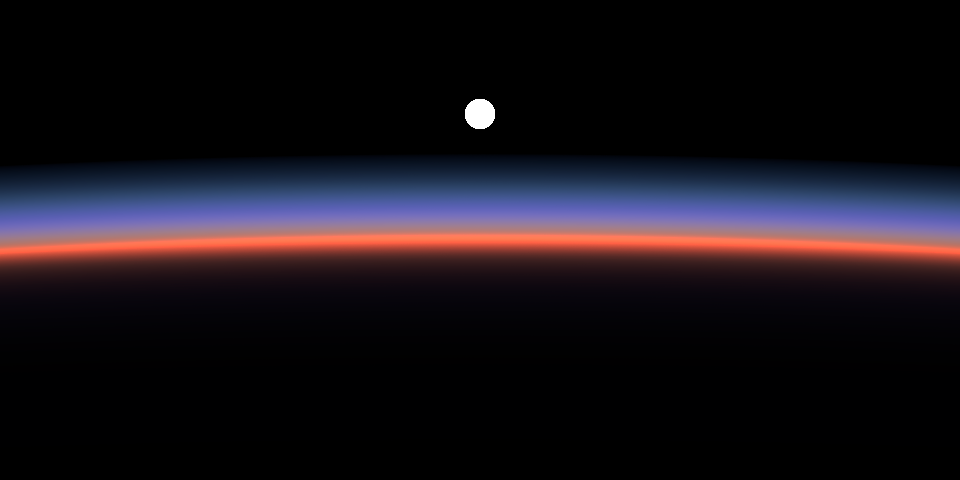
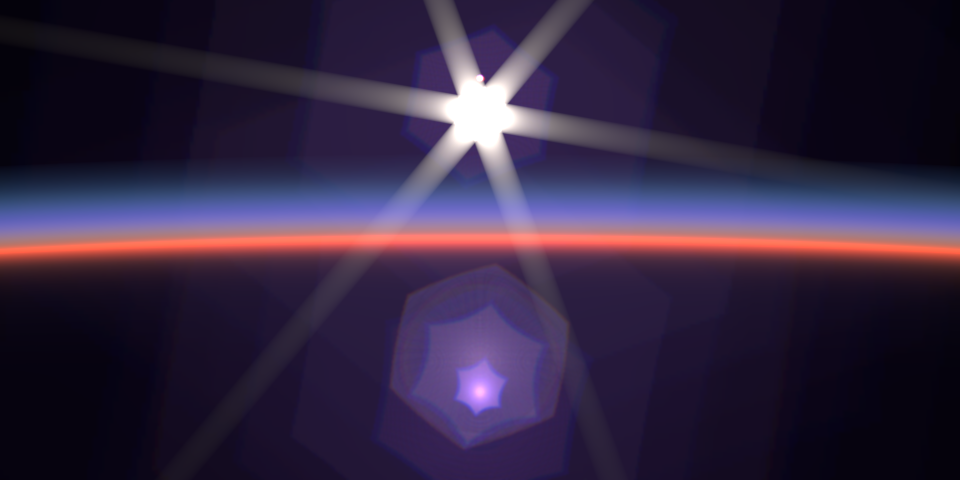
Lens flare in the space scenes; flare grids follow the pupil
Ghost grids were laid over the whole front element, of which a small
aperture passes only a sliver: a ghost filling the image was drawn from a
few dozen blocky cells. Each path's grid now covers just the region a coarse
pass finds getting through, with the light per unit of entrance area.

The flare's default lens is the wide-angle one for views wider than 20 deg up
from the centre, which the double Gauss doesn't cover (a light outside its
field makes no ghosts).

limb-sunset and stratosphere gain a six-bladed f/11 flare, exaggerated.

Claude-Session: https://claude.ai/code/session_01U8ZZinc1MtAMYjLJ6fUm2R

diff --git a/src/flare.rs b/src/flare.rs
@@ -231,19 +231,45 @@ impl Flare {
         Some((Vector2::new(o.x + d.x * t, o.y + d.y * t), weight))
     }
 
-    /// The grid's rays for a light from camera-space `direction`: for each vertex of a
-    /// (grid + 1)² lattice over the front element, where it lands and with what weight.
-    fn lattice(&self, z: &[f64], direction: &Vector3<f64>, ghost: Option<(usize, usize)>, lambda: f64) -> Vec<Option<(Vector2<f64>, f64)>> {
-        let g = self.grid;
-        let r = self.lens.interfaces[0].aperture;
+    /// The rays for a light from camera-space `direction` through a lattice of (g + 1)²
+    /// points on the front element's plane, spanning [lo, hi]: for each, where it lands on the
+    /// film and with what weight.
+    #[allow(clippy::too_many_arguments)]
+    fn lattice_in(&self, z: &[f64], direction: &Vector3<f64>, ghost: Option<(usize, usize)>, lambda: f64,
+                  lo: Vector2<f64>, hi: Vector2<f64>, g: usize) -> Vec<Option<(Vector2<f64>, f64)>> {
         let front = self.lens.front_z();
         let d = -direction.normalize();
         (0..(g + 1) * (g + 1)).map(|k| {
             let (i, j) = (k % (g + 1), k / (g + 1));
-            let p = Vector3::new(-r + 2. * r * i as f64 / g as f64, -r + 2. * r * j as f64 / g as f64, front);
+            let p = Vector3::new(lo.x + (hi.x - lo.x) * i as f64 / g as f64, lo.y + (hi.y - lo.y) * j as f64 / g as f64, front);
             // Start a little in front of the lens, back along the ray.
             self.trace(z, &(p - d * 0.01), &d, ghost, lambda)
         }).collect()
+    }
+
+    /// The rays along a path through a lattice of `grid` cells a side, laid over just the part of
+    /// the front element whose rays get through: found by a coarse lattice over the whole
+    /// element first, since at small apertures only a sliver of it passes the stop. The lattice,
+    /// its corners and its size; None if nothing gets through.
+    #[allow(clippy::type_complexity)]
+    fn lattice(&self, z: &[f64], direction: &Vector3<f64>, ghost: Option<(usize, usize)>, lambda: f64)
+               -> Option<(Vec<Option<(Vector2<f64>, f64)>>, Vector2<f64>, Vector2<f64>)> {
+        const COARSE: usize = 48;
+        let r = self.lens.interfaces[0].aperture;
+        let (lo, hi) = (Vector2::repeat(-r), Vector2::repeat(r));
+        let coarse = self.lattice_in(z, direction, ghost, lambda, lo, hi, COARSE);
+        let step = 2. * r / COARSE as f64;
+        let mut bounds: Option<(Vector2<f64>, Vector2<f64>)> = None;
+        for (k, v) in coarse.iter().enumerate() {
+            if v.is_some() {
+                let p = Vector2::new(-r + step * (k % (COARSE + 1)) as f64, -r + step * (k / (COARSE + 1)) as f64);
+                bounds = Some(match bounds { None => (p, p), Some((a, b)) => (a.inf(&p), b.sup(&p)) });
+            }
+        }
+        // A path that only a few coarse points miss entirely still has a sliver: widen by a cell.
+        let (a, b) = bounds?;
+        let (a, b) = ((a - Vector2::repeat(step)).sup(&lo), (b + Vector2::repeat(step)).inf(&hi));
+        Some((self.lattice_in(z, direction, ghost, lambda, a, b, self.grid), a, b))
     }
 
     /// Film (camera space) to image position in pixels, (column, row from the top): the image
@@ -307,17 +333,25 @@ impl Flare {
         let cell_ok = |lat: &[Option<(Vector2<f64>, f64)>], i: usize, j: usize| {
             [(i, j), (i + 1, j), (i + 1, j + 1), (i, j + 1)].iter().all(|(a, b)| lat[b * (g + 1) + a].is_some())
         };
-        // The light's energy per cell that reaches the film directly.
-        let direct = self.lattice(&z, &source.direction, None, WAVELENGTHS[1]);
-        let reaching = (0..g * g).filter(|k| cell_ok(&direct, k % g, k / g)).count();
-        if reaching == 0 {
+        let cell_area = |lo: &Vector2<f64>, hi: &Vector2<f64>| (hi.x - lo.x) * (hi.y - lo.y) / (g * g) as f64;
+        // The area of the front element through which the light reaches the film directly: its
+        // energy per unit of that area.
+        let (direct, dlo, dhi) = match self.lattice(&z, &source.direction, None, WAVELENGTHS[1]) {
+            Some(l) => l,
+            None => return vec![Color::black(); w * h],
+        };
+        let reaching = (0..g * g).filter(|k| cell_ok(&direct, k % g, k / g)).count() as f64 * cell_area(&dlo, &dhi);
+        if reaching <= 0. {
             return vec![Color::black(); w * h];
         }
         let jobs: Vec<((usize, usize), usize)> = self.ghost_pairs().into_iter().flat_map(|p| (0..3).map(move |c| (p, c))).collect();
         jobs.par_iter().fold(|| vec![Color::black(); w * h], |mut out, &(pair, c)| {
             let lambda = WAVELENGTHS[c];
-            let lat = self.lattice(&z, &source.direction, Some(pair), lambda);
-            let per_cell = source.energy.rgb[c] * self.ghosts / reaching as f64;
+            let (lat, lo, hi) = match self.lattice(&z, &source.direction, Some(pair), lambda) {
+                Some(l) => l,
+                None => return out,
+            };
+            let per_cell = source.energy.rgb[c] * self.ghosts * cell_area(&lo, &hi) / reaching;
             for j in 0..g {
                 for i in 0..g {
                     if !cell_ok(&lat, i, j) {
@@ -559,7 +593,7 @@ mod tests {
         let z = f.positions();
         let a = 5f64.to_radians();
         let dir = Vector3::new(a.sin(), 0., a.cos());
-        let lat = f.lattice(&z, &dir, None, 550.);
+        let (lat, _, _) = f.lattice(&z, &dir, None, 550.).unwrap();
         let hits: Vec<Vector2<f64>> = lat.iter().flatten().map(|(p, _)| *p).collect();
         assert!(hits.len() > 100);
         let mean = hits.iter().sum::<Vector2<f64>>() / hits.len() as f64;

diff --git a/src/scenefile.rs b/src/scenefile.rs
@@ -484,7 +484,9 @@ impl SceneFile {
     /// The output's `"flare"` (`flare`): `true`, or `{"lens", "f_number", "blades",
     /// "blade_rotation", "threshold": 20, "sources": 8, "ghosts": 1, "starburst": 1}`. With a
     /// realistic camera, its lens, f-number, blades, focus and film are the defaults; otherwise
-    /// the double Gauss wide open, focused far off, on a film matching the camera's view.
+    /// the double Gauss (or for views wider than 20° up from the centre, the wide-angle lens)
+    /// wide open, focused far off, on a film matching the camera's view. A light outside the
+    /// lens's field makes no ghosts.
     /// `ghosts` and `starburst` scale each (0 or false for none).
     pub fn parse_flare(output: &Value, camera: &Value, width: usize, height: usize) -> Option<Arc<crate::flare::Flare>> {
         let f = match output.get("flare") {
@@ -495,7 +497,14 @@ impl SceneFile {
         let realistic = camera["type"].as_str() == Some("realistic");
         let pick = |k: &str| if !f[k].is_null() { f[k].clone() } else if realistic { camera[k].clone() } else { Value::Null };
         let blade_source = serde_json::json!({ "blades": pick("blades"), "blade_rotation": pick("blade_rotation") });
-        let lens = SceneFile::parse_lens(pick("lens").as_str().unwrap_or("dgauss.50mm"), &blade_source);
+        // A lens that covers the view: the double Gauss reaches about 22° from its axis, so wider
+        // views (more than 20° up from the centre) take the wide-angle lens.
+        let default_lens = if !realistic && camera["angle"].as_f64().is_some_and(|a| a.tan() / 2. > 20f64.to_radians().tan()) {
+            "wide.22mm"
+        } else {
+            "dgauss.50mm"
+        };
+        let lens = SceneFile::parse_lens(pick("lens").as_str().unwrap_or(default_lens), &blade_source);
         let focal = lens.focal_length().unwrap_or_else(|| panic!("The flare's lens doesn't form an image"));
         let lens = match pick("f_number").as_f64() { Some(n) => lens.with_stop(focal / n), None => lens };
         let focus = if realistic {
